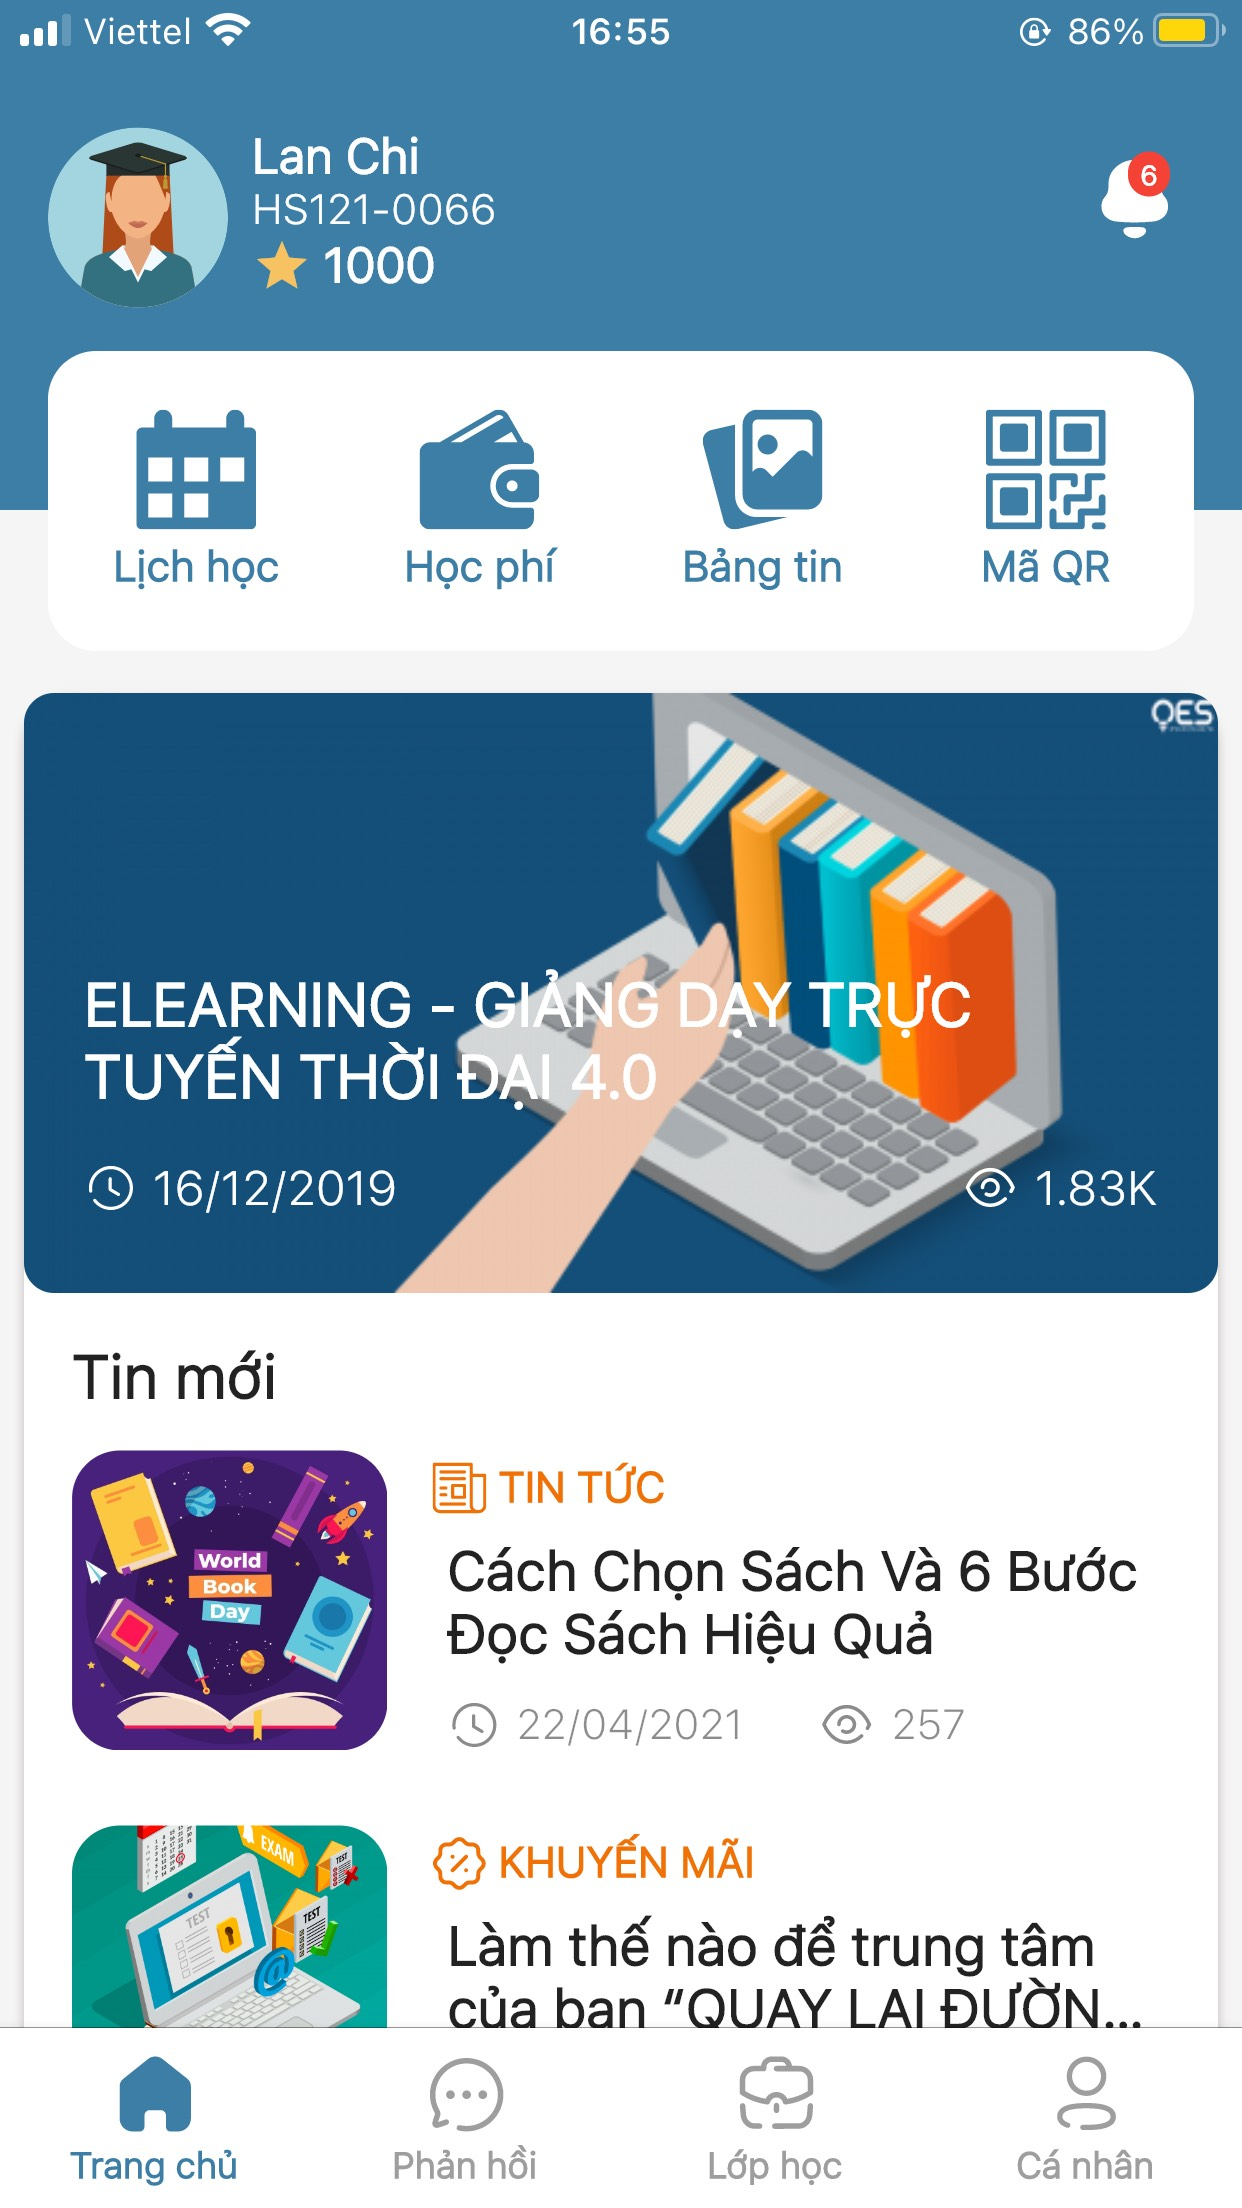
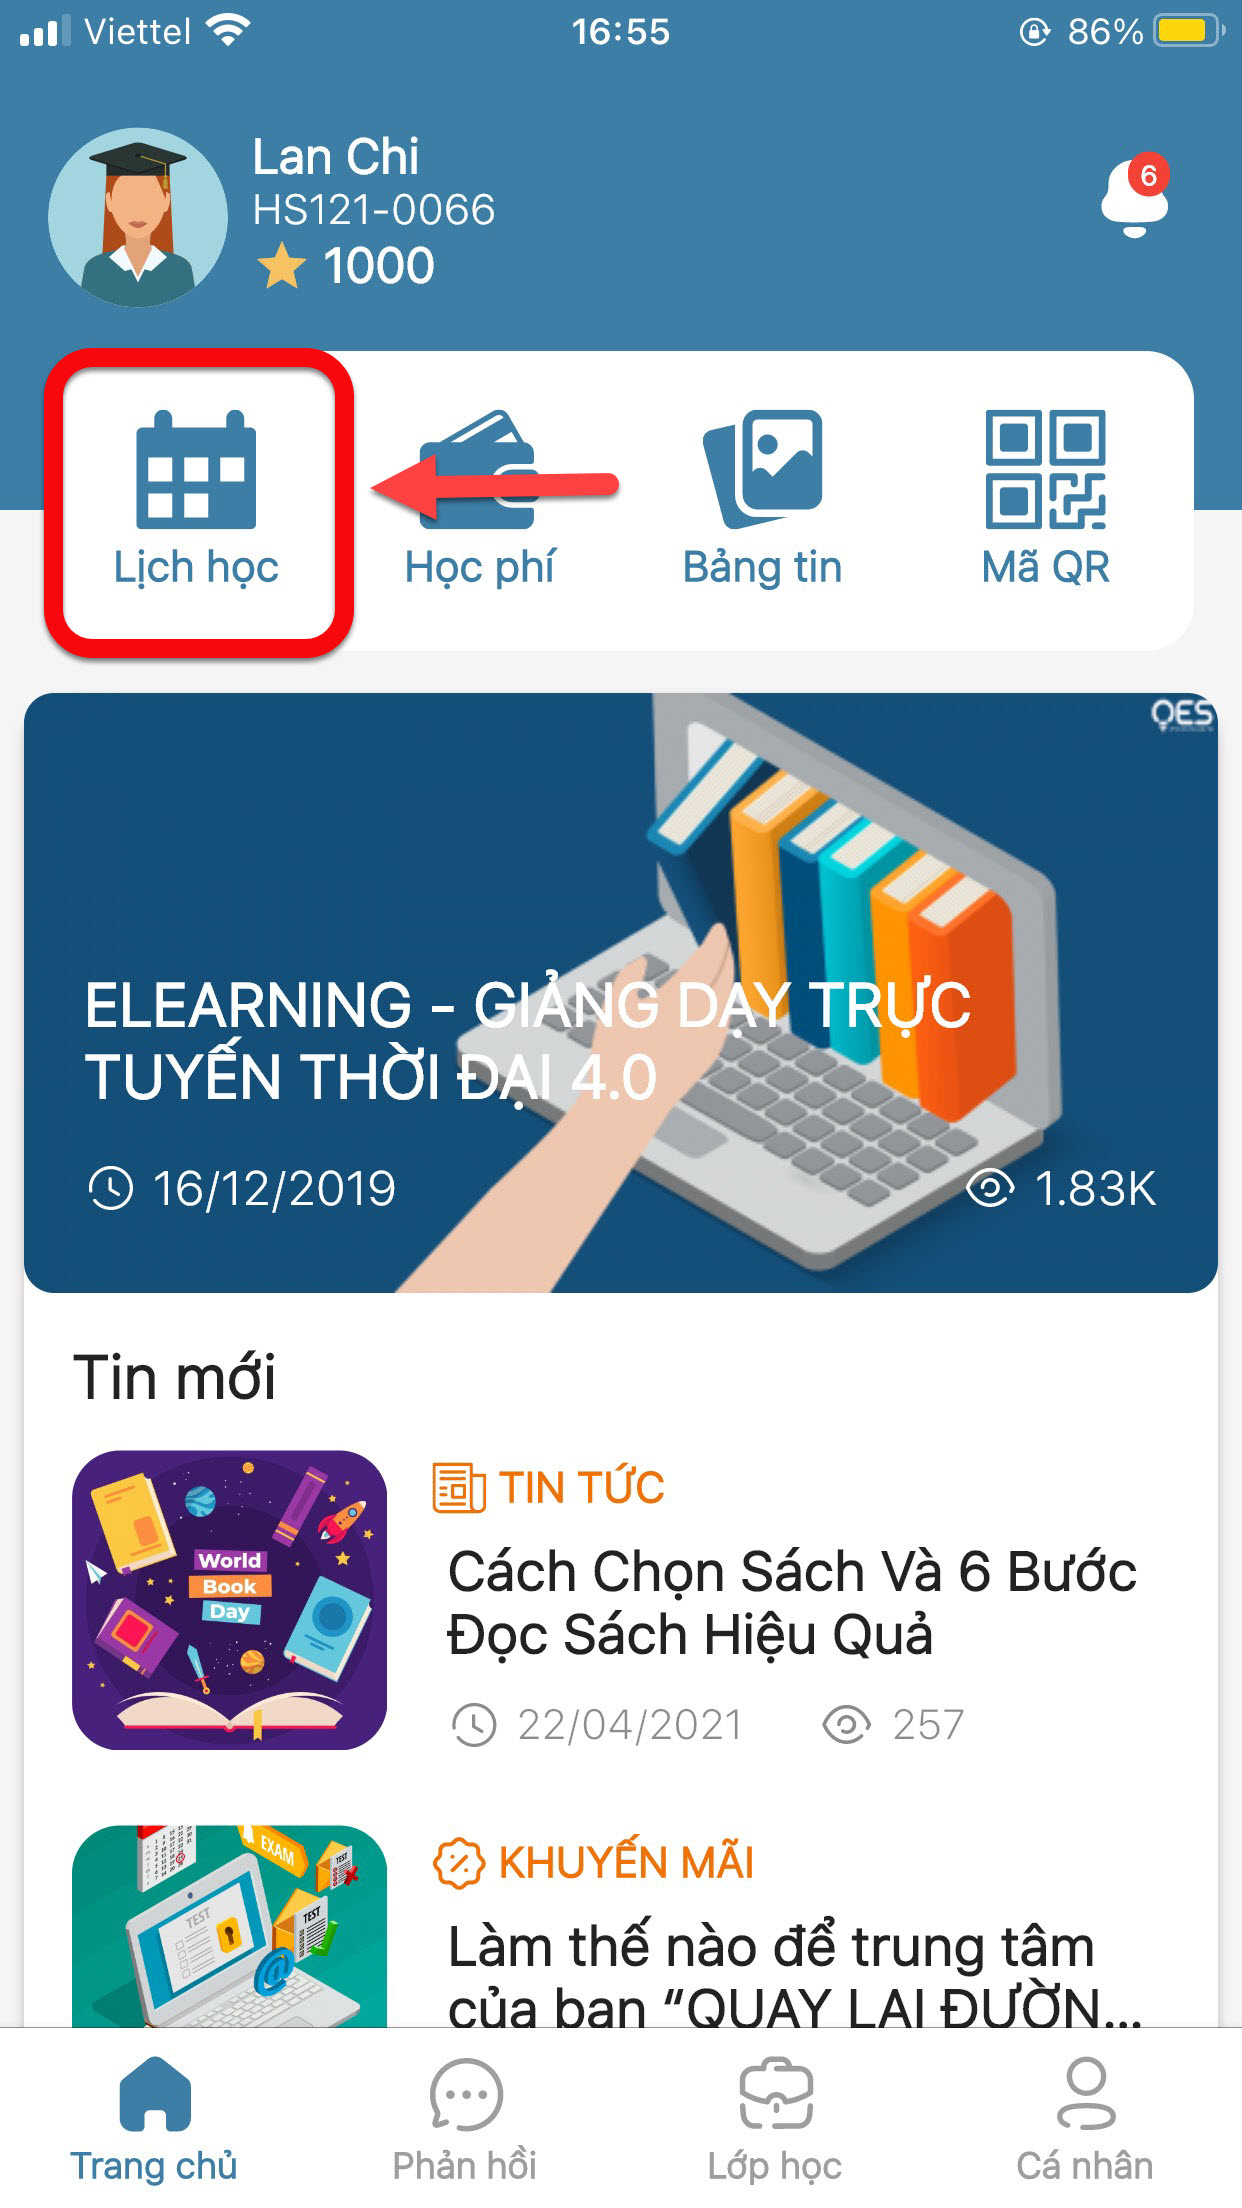
GitBook: [master] 2 pages and 4 assets modified

diff --git a/mobile/thong-tin-thoi-khoa-bieu.md b/mobile/thong-tin-thoi-khoa-bieu.md
@@ -2,18 +2,18 @@
 
 > Bước 1: Tại màn hình Trang chủ, click vào chức năng Lịch học để theo dõi Thời khóa biểu của học viên.
 
-![](../.gitbook/assets/image%20%2813%29%20%282%29.png)
+![](../.gitbook/assets/f0077e9a4065b43bed74.jpg)
 
 > Bước 2: Click vào để lựa chọn buổi học tương ứng cần xem chi tiết.
 
-![](../.gitbook/assets/1_lh.jpg)
+![](../.gitbook/assets/a9102e1129eeddb084ff%20%281%29.jpg)
 
 {% hint style="info" %}
 **Ghi chú**:
 
-* Màu xám: Buổi học đã hết thúc.
-* Màu xanh: Buổi học chưa kết thúc.
-* Click vào ô hình chữ nhật màu xanh/màu xanh thông tin lịch học hệ thống sẽ show ra chi tiết lịch học.
+* Màu xám: Buổi học đã kết thúc.
+* Màu xanh: Buổi học chưa bắt đầu.
+* Click vào ô hình chữ nhật: Thông tin lịch học hệ thống sẽ show ra chi tiết lịch học buổi đó.
 {% endhint %}
 
 > Bước 3: Ứng dụng hiển thị thông tin chi tiết của buổi học đó.

diff --git a/mobile/quan-li-ket-qua-hoc-vien.md b/mobile/quan-li-ket-qua-hoc-vien.md
@@ -16,7 +16,7 @@
 
 > Bước 4: Đăng nhập thành công, ứng dụng sẽ hiển thị màn hình Trang chủ như hình bên dưới:
 
-![](../.gitbook/assets/f0077e9a4065b43bed74.jpg)
+![](../.gitbook/assets/f0077e9a4065b43bed74%20%281%29.jpg)
 
 
 
